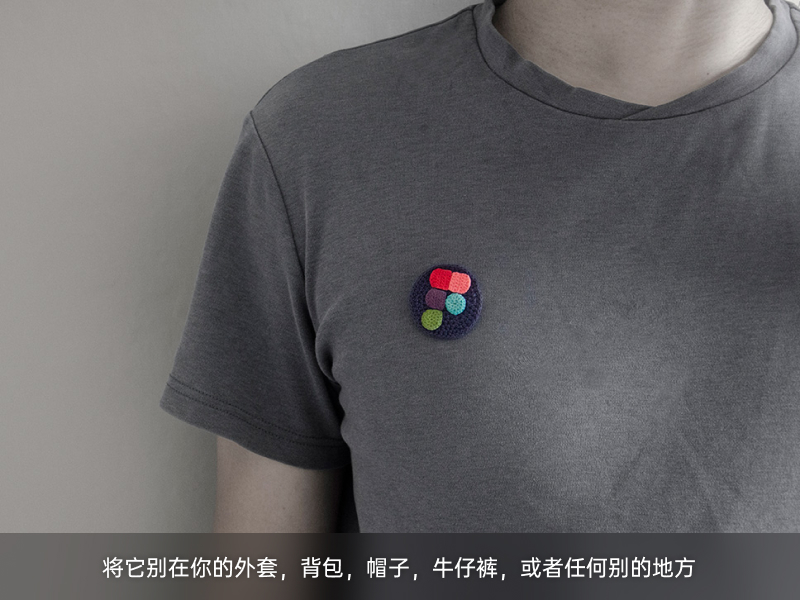
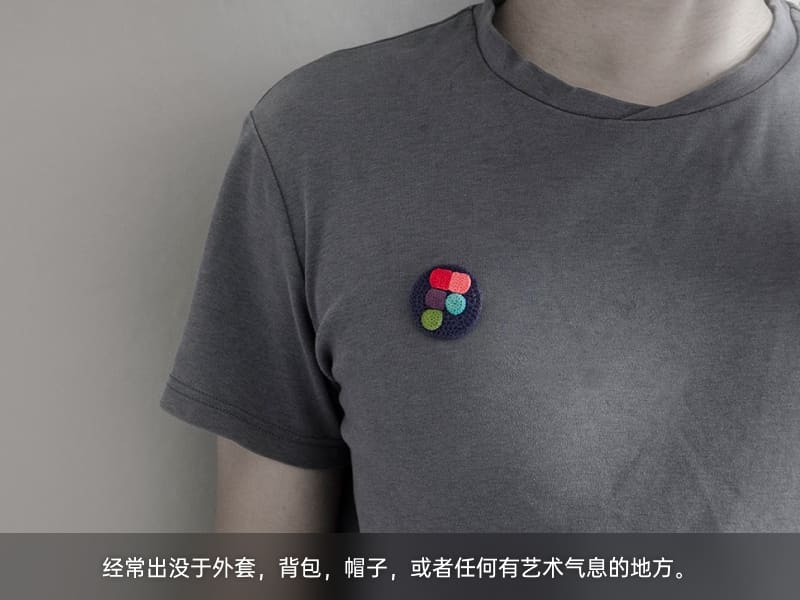
issue8

Changed region(s): [[0.125, 0.93, 0.875, 0.99], [0.5625, 0.48, 0.5938, 0.51], [0.5312, 0.45, 0.5625, 0.48]]

diff --git a/src/components/AboutAlt.js b/src/components/AboutAlt.js
@@ -179,10 +179,10 @@ const AboutImage = styled.img`
         border:2px solid ${COLORS.brand};
         transform:scale(1.05);
 `
-// const FigureCap = styled.figcaption`
-//     font-style: italic;
-//     font-size: .7em;
-// `
+const FigureCap = styled.figcaption`
+    font-style: italic;
+    font-size: .9em;
+`
 
 const FigureClear = styled.div`
 clear:both;
@@ -292,16 +292,19 @@ const AboutAlt = () => {
  
 
         <AboutHeadline>Figma 针织胸针</AboutHeadline>
-
         <AboutFigure>
             <AboutImage onClick={slideHandler.bind(null, true)} src="images/figma_craft.jpg" alt="Figma 手工针织胸针 ｜ 又一造物" />
-            {/* <FigureCap>Figma 手工针织胸针   </FigureCap> */}
+            <FigureCap>将设计，拿在手，别在胸。</FigureCap>
         </AboutFigure>
+        {'' /* <AboutText>将设计，拿在手，别在胸。</AboutText> */}
+        <AboutText>「又一造物」手工针织的 Figma 胸针，经常出没于外套，背包，帽子，或者任何有艺术气息的地方。</AboutText>
+
+
         
         <AboutText>
-        如果你赞赏了<strong>30元</strong>，我们将给你邮寄一个由<strong>又一造物</strong>手工针织的 Figma 胸针。发送你的<strong>手机号和收件地址</strong>即可获得。
+        如果你赞赏了<strong>30元</strong>，我们将给你邮寄胸针。发送你的<strong>手机号和收件地址</strong>即可获得。
         </AboutText>
-        <AboutText>可通过邮箱发送： hitovi@outlook.com，或者添加 Tovi 的微信号发送：twowei </AboutText>
+        <AboutText>手机和地址可通过邮箱发送： hitovi@outlook.com，或者添加 Tovi 的微信号发送：twowei </AboutText>
         <AboutText onClick={slideHandler.bind(null, true)} className="AboutSlideText">查看 Figma 针织胸针大图 →</AboutText>
         {/* <AboutText><a href="./brooch" rel="noreferrer">查看 Figma 针织胸针大图 →</a></AboutText> */}
         <FigureClear></FigureClear>

diff --git a/src/components/Header.css b/src/components/Header.css
@@ -93,3 +93,42 @@
         display: block;
     }
   }
+
+  .em-text {
+    background: linear-gradient(269deg, #ff50e9, #2244ff, #2ec6ff, #4c3fff, #f429ff, #ff46b7);
+    background-size: 1200% 1200%;
+
+    -webkit-animation: em-text 16s ease infinite;
+    -moz-animation: em-text 16s ease infinite;
+    animation: em-text 16s ease infinite;
+}
+
+@-webkit-keyframes em-text {
+    0%{background-position:0% 50%}
+    50%{background-position:100% 50%}
+    100%{background-position:0% 50%}
+}
+@-moz-keyframes em-text {
+    0%{background-position:0% 50%}
+    50%{background-position:100% 50%}
+    100%{background-position:0% 50%}
+}
+@keyframes em-text {
+    0%{background-position:0% 50%}
+    50%{background-position:100% 50%}
+    100%{background-position:0% 50%}
+}
+
+.em-text{
+    -webkit-background-clip: text;
+    -webkit-text-fill-color: transparent;
+  }
+
+.em-text:hover{
+    color: #7c229c;
+    background: linear-gradient(269deg, #ff50e9,  #ff46b7);
+
+    -webkit-background-clip: text;
+    -webkit-text-fill-color: transparent;
+    /* text-shadow: 0px 0px 16px rgba(140, 0, 249, 0.1); */
+}

diff --git a/src/pages/index.js b/src/pages/index.js
@@ -102,7 +102,7 @@ const IndexPage = () => {
     <div className={`Hero ${theme}-Hero`}>
       <div className="HeroGroup">
         <h1><span className={`GradientText ${theme}-GradientText`}>Featured</span><br />Figma<br />Plugins.</h1>
-        <p>每月的最后一天，给你推荐当月更新的、值得尝试的 Figma 插件。<br />下一次推送时间：9月30日。可以关注公众号获得更新提醒。</p>
+        <p>每月的最后一天，给你推荐当月更新的、值得尝试的 Figma 插件。<br />可以关注公众号获得更新提醒。</p>
       </div>
     </div>
 

diff --git a/src/components/Slider.css b/src/components/Slider.css
@@ -48,6 +48,10 @@
     font-size: 14px;
     width:64px;
 }
+.slider-button-bg{
+    opacity:0.05;
+}
+
 .slider-close,
 .slider-prev,
 .slider-next{
@@ -55,14 +59,19 @@
     /* box-shadow: rgba(0, 0, 0, .8) 0 0 3px; */
     border-radius: 2px;
 }
+
+.slider-close:hover .slider-button-bg, 
+.slider-prev:hover .slider-button-bg, 
+.slider-next:hover .slider-button-bg{
+    opacity:0.10;
+}
+
 .slider-next{
     margin-left: 16px;
 }
 
-.slider-button-bg{
-    opacity:0.05;
-}
 
-.slider-button-bg:hover{
+
+/* .slider-button-bg:hover{
     opacity:0.10;
-}
+} */

diff --git a/src/components/header.js b/src/components/header.js
@@ -45,7 +45,7 @@ class Header extends React.Component{
           </div>
           <div className="HeaderButton">
             {/* <Link to="/">最新</Link> */}
-            <Link to="/#brooch">Figma 胸针</Link>
+            <Link to="/#brooch" className='em-text'>Figma 胸针</Link>
             <Link to="/#IdClassify">分类</Link>
             {/* <Link to="/#IdArchive">归档</Link> */}
             <Link to="/#IdAbout">关于</Link>

diff --git a/src/pages/classify.js b/src/pages/classify.js
@@ -5,7 +5,7 @@ import styled from 'styled-components'
 import Subscribe from '../components/Subscribe'
 
 const store = {}
-for(let i=1; i<=7; i++){
+for(let i=1; i<=8; i++){
     const issue = require(`../data/issue${i}.json`)
     for(let cell of issue.cells){
         if(!cell) continue

diff --git a/src/components/Slider.js b/src/components/Slider.js
@@ -2,7 +2,7 @@ import React, {useState} from 'react'
 import './Slider.css'
 
 //动态获取幻灯片
-const list = [1,2,3,4,5,6]
+const list = [1,2,3,4,5,6,7,8]
 const total = list.length
 
 export default ({show, hideSlide}) => {

diff --git a/src/data/index.js b/src/data/index.js
@@ -3,7 +3,7 @@ const store = {
     tags: {},
     date: {}
 }
-for(let i=1; i<=7; i++){
+for(let i=1; i<=8; i++){
     const issue = require(`./issue${i}.json`)
     for(let cell of issue.cells){
         if(!cell) continue

diff --git a/src/theme/global.css b/src/theme/global.css
@@ -127,3 +127,4 @@
   background-color: #fff;
   color: rgba(184,0,249,1);
 }
+
